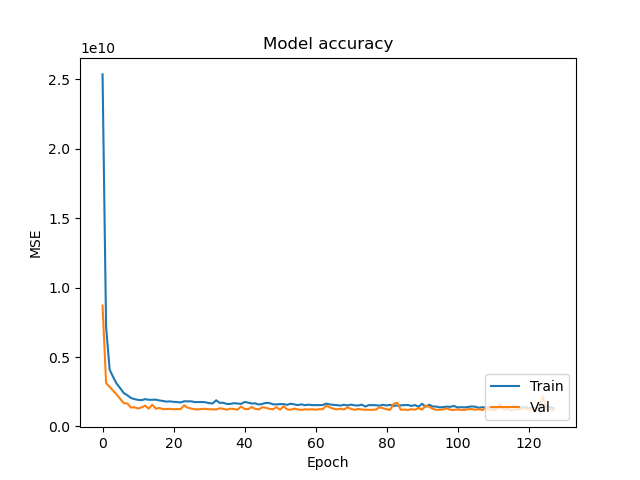
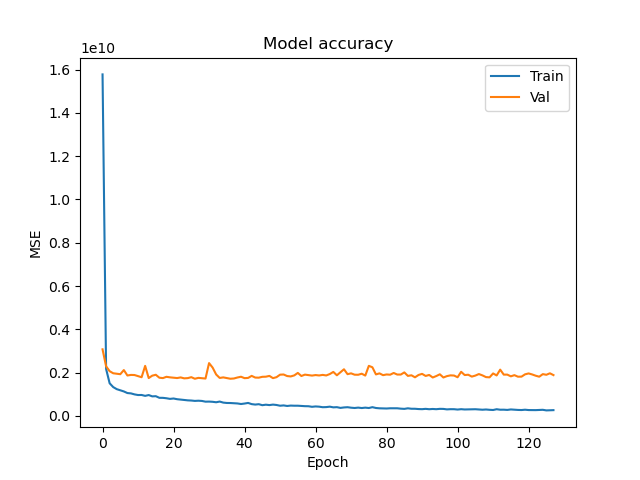
Modified data validation, test/training data sets are now only split once and modified figure outputs

diff --git a/AI_CW.py b/AI_CW.py
@@ -6,9 +6,10 @@ from sklearn.linear_model import LinearRegression
 from sklearn import metrics
 from sklearn.preprocessing import PolynomialFeatures
 from sklearn.model_selection import train_test_split
+from sklearn.preprocessing import MinMaxScaler
 
 # Load data from file
-allData=pd.read_csv('Data.csv', skip_blank_lines=True)
+df=pd.read_csv('Data.csv', skip_blank_lines=True)
 
 # extract all data from Data.csv, except non-numerical features
 #Bsmt SF 1&2 and unf SF removed - covered by Total Bsmt SF
@@ -17,88 +18,115 @@ allData=pd.read_csv('Data.csv', skip_blank_lines=True)
 #GarageYrBlt removed - unimportant
 #Misc Val removed - ambiguity
 #Bedroom AbvGr & Kitched AbvGr removed - covered by TotRms AbvGrd
-trimmedData = allData[["MS SubClass","Lot Frontage","Lot Area","Overall Qual","Overall Cond",
-"Year Built","Year Remod/Add","Mas Vnr Area",
-"Total Bsmt SF","1st Flr SF","2nd Flr SF",
-"Low Qual Fin SF","Gr Liv Area",
-"Full Bath","Half Bath",
-"TotRms AbvGrd","Fireplaces","Garage Area",
-"Wood Deck SF","Open Porch SF", "Enclosed Porch",
-"3Ssn Porch","Screen Porch","Pool Area","Mo Sold","Yr Sold","SalePrice"]]
-#print("Trimmed data:",trimmedData)
 
+FML: list[str] = [
+    "Order",
+    "Yr Sold",
+    "Mo Sold",
+    "BsmtFin SF 1",
+    "BsmtFin SF 2",
+    "1st Flr SF",
+    "2nd Flr SF",
+    "Low Qual Fin SF",
+    "Bsmt Full Bath",
+    "Bsmt Half Bath",
+    "Full Bath",
+    "Half Bath",
+    "Bedroom AbvGr",
+    "Kitchen AbvGr",
+]
+df.drop(FML, axis=1)
+non_numeric_columns: list[str] = df.select_dtypes(
+    exclude=np.number).columns.tolist()
+
+df = df.drop(non_numeric_columns, axis = 1)
 #Replace null values with average for the column
 
-for col in trimmedData:
+df = df.fillna(df.mean())
 
-    currentCol = trimmedData[col]
-    mean = float
-    mean = currentCol.mean()
-    trimmedData[col] = trimmedData[col].fillna(mean)
+# Scale columns except last (sale price)
+scaler=MinMaxScaler()
+df[df.columns[:-1]] = scaler.fit_transform(df[df.columns[:-1]])
 
-#Partition dataset 80/20 for training & testingpytho
-#2930 indexes, highest index = 2929
+#Partition dataset 80/20 for training & testing
 #Training data = 0-2344
 #Test data = 2343-2929 
+df_train: pd.DataFrame = df.iloc[: int(0.8*len(df))]
+df_test: pd.DataFrame = df.iloc[int(0.8*len(df)):]
 
-X, Y = trimmedData[["MS SubClass","Lot Frontage","Lot Area","Overall Qual","Overall Cond",
-"Year Built","Year Remod/Add","Mas Vnr Area",
-"Total Bsmt SF","1st Flr SF","2nd Flr SF",
-"Low Qual Fin SF","Gr Liv Area",
-"Full Bath","Half Bath",
-"TotRms AbvGrd","Fireplaces","Garage Area",
-"Wood Deck SF","Open Porch SF", "Enclosed Porch",
-"3Ssn Porch","Screen Porch","Pool Area","Mo Sold","Yr Sold"]], trimmedData["SalePrice"]
+df_x_train: pd.DataFrame = df_train.drop(["SalePrice"],axis=1)
+df_y_train: pd.DataFrame = df_train["SalePrice"]
+
+df_x_test: pd.DataFrame = df_test.drop(["SalePrice"],axis=1)
+df_y_test: pd.DataFrame = df_test["SalePrice"]
+
 
 #Linear Regression
-xTrain, xTest, yTrain, yTest = train_test_split(X, Y, test_size=0.2, random_state=42)
 linearModel = LinearRegression()
-linearModel.fit(xTrain, yTrain)
+linearModel.fit(df_x_train, df_y_train)
 
-linPredict = linearModel.predict(xTest)
-fig=sns.regplot(x=yTest, y=linPredict)
-fig.figure.savefig("./plots/linearRegressionPredictions.png")
-fig.clear()
+linPredict = linearModel.predict(df_x_test)
+#fig=sns.regplot(x=df_y_test, y=linPredict)
+plt.scatter(df_y_test,linPredict)
+plt.plot(df_y_test, np.poly1d(np.polyfit(df_y_test,linPredict,1))(df_y_test),color="red")
+#fig.set(xlabel='True Value',ylabel='Predicted Value')
+plt.xlabel("Actual")
+plt.ylabel("Predicted")
+plt.savefig("./plots/linearRegressionPredictions.png")
+plt.clf()
 
 ##Compute Mean Absolute Error
-print("Linear MAE: ", metrics.mean_absolute_error(yTest, linPredict))
+print("Linear MAE: ", metrics.mean_absolute_error(df_y_test, linPredict))
 ##Compute Mean Squared Error
-print("Linear MSE: ", metrics.mean_squared_error(yTest,linPredict))
+print("Linear MSE: ", metrics.mean_squared_error(df_y_test,linPredict))
 ##Compute Root Mean Squared Error
-print("Linear RMSE: ", np.sqrt(metrics.mean_squared_error(yTest, linPredict)))
+print("Linear RMSE: ", np.sqrt(metrics.mean_squared_error(df_y_test, linPredict)))
 
 #Polynomial Regresssion
 
 #Create and add data to model
-poly = PolynomialFeatures(degree=2,include_bias=True)
-features = poly.fit_transform(X)
-xTrain, xTest, yTrain, yTest = train_test_split(features, Y, test_size=0.2, random_state=42)
-
 polyRegModel = LinearRegression()
-polyRegModel.fit(xTrain,yTrain)
-polyPredict = polyRegModel.predict(xTest)
+poly = PolynomialFeatures(degree=2,include_bias=False)
+features = poly.fit_transform(df_x_train)
+
+polyRegModel.fit(df_x_train,df_y_train)
+polyPredict = polyRegModel.predict(df_x_test)
 
 #Computations
-print("Poly MAE: ",metrics.mean_absolute_error(yTest,polyPredict))
-print("Poly MSE: ", metrics.mean_squared_error(yTest,polyPredict))
-print("Poly RMSE: ",np.sqrt(metrics.mean_squared_error(yTest,polyPredict)))
+print("Poly MAE: ",metrics.mean_absolute_error(df_y_test,polyPredict))
+print("Poly MSE: ", metrics.mean_squared_error(df_y_test,polyPredict))
+print("Poly RMSE: ",np.sqrt(metrics.mean_squared_error(df_y_test,polyPredict)))
 
-#Create and save seaborn figure
-fig = sns.regplot(x=yTest,y=polyPredict)
-fig.figure.savefig("./plots/PolyRegression")
-fig.clear()
+#Create and save figure
+
+plt.scatter(df_y_test, polyPredict)
+plt.plot(df_y_test, np.poly1d(np.polyfit(df_y_test,polyPredict,1))(df_y_test),color="red")
+plt.xlabel("Actual")
+plt.ylabel("Predicted")
+plt.savefig("./plots/PolyRegression")
+plt.clf()
 
 #Neural Network
-X_new, X_test, y_new, y_test = train_test_split(X, Y, test_size=0.2, random_state=0)
-dev_per = X_test.shape[0]/X_new.shape[0]
-X_train, X_dev, y_train, y_dev = train_test_split(X_new, y_new, test_size=dev_per, random_state=0)
+df = pd.concat([df_train,df_test])
+df_train = df.iloc[:int(df.shape[0]*0.6)]
+df_val = df.iloc[int(df.shape[0]*0.6):int(df.shape[0]*0.8)]
+df_test = df.iloc[int(df.shape[0]*0.8) :]
+
+df_x_train: pd.DataFrame = df_train.drop(["SalePrice"],axis=1)
+df_y_train: pd.DataFrame = df_train["SalePrice"]
+
+df_x_test: pd.DataFrame = df_test.drop(["SalePrice"],axis=1)
+df_y_test: pd.DataFrame = df_test["SalePrice"]
+
+df_x_val: pd.DataFrame = df_val.drop(["SalePrice"],axis=1)
+df_y_val: pd.DataFrame = df_val["SalePrice"]
 
 from keras.models import Sequential
 from keras.layers import Dense
 from tensorflow.keras.optimizers import Adam
 
-model = Sequential([
-    Dense(128, activation='relu', input_shape=(26,)),
+network = Sequential([
+    Dense(128, activation='relu', input_shape=(38,)),
     Dense(128, activation='relu'),
     Dense(128, activation='relu'),
     Dense(128, activation='relu'),
@@ -108,17 +136,20 @@ model = Sequential([
 
 optimizer = Adam(learning_rate=0.001)
 
-model.compile(optimizer= optimizer,
+network.compile(optimizer= optimizer,
               loss='mean_squared_error',
               metrics=['mean_squared_error'])
 
-hist = model.fit(X_train, y_train,
-          batch_size=0, epochs=128,
-          validation_data=(X_dev, y_dev),
+hist = network.fit(df_x_train, df_y_train,
+          batch_size=8, epochs=128,
+          validation_data=(df_x_val, df_y_val),
           verbose = 0)
 
+NNetPredictions: np.ndarray = network.predict(df_x_test)
 
 #Loss of NNet
+plt.clf()
+plt.title("NNet Loss")
 plt.plot(hist.history['loss'])
 plt.plot(hist.history['val_loss'])
 plt.title('Model loss')
@@ -135,53 +166,19 @@ plt.plot(hist.history['val_mean_squared_error'])
 plt.title('Model accuracy')
 plt.ylabel('MSE')
 plt.xlabel('Epoch')
-plt.legend(['Train', 'Val'], loc='lower right')
+plt.legend(['Train', 'Val'], loc='upper right')
 plt.savefig("./plots/NNetAccuracy.png")
 plt.clf()
 
+# Plot predictions against true values 
+plt.scatter(df_y_test, NNetPredictions)
+y_pred = NNetPredictions.flatten()
+plt.plot(df_y_test,np.poly1d(np.polyfit(df_y_test,y_pred,1))(df_y_test), color="red")
+plt.savefig("./plots/NNetPredictions.png")
+plt.clf()
+
 # Evaluate the model on the test set
-test_loss, test_accuracy = model.evaluate(X_test, y_test, verbose=1)
+test_loss, test_accuracy = network.evaluate(df_x_test, df_y_test, verbose=1)
 # Print the accuracy
 print(f"Test MSE: {test_accuracy}")
 print(f"Val Loss: {test_loss}")
-
-# exampleGraph = sns.load_dataset(exampleData)
-#calculatorStuff = exampleData["Lot Area"].to_numpy()
-# Splits 'exampledata' dict into two lists
-
-#tempLotArea = exampleData["Lot Area"]
-#tempSalePrice = exampleData["SalePrice"]
-#landVal = []
-
-# calculates landvalue, area/price, adds to list
-#for index in range(len(tempLotArea)):
- #   lotArea = tempLotArea[index]
-  #  salePrice = tempSalePrice[index]
-   # tempVal = lotArea/salePrice
-    #landVal.append(tempVal)
-
-# Creates numpy list, calculates mean and std
-#numpyLandVal = np.array(landVal)
-#mean = numpyLandVal.mean()
-#std = numpyLandVal.std()
-#removed = []
-
-# itterates numpy list, removes outliers in dataset
-#for index in range(len(numpyLandVal)):
-#    if numpyLandVal[index]>=(mean+(3*std)):
-#        removed.append(index)
-#        exampleData = exampleData.drop(index)
-#    elif numpyLandVal[index]<=(mean-(3*std)):
-#       removed.append(index)
-#       exampleData = exampleData.drop(index)
-
-# Outputs data as scatter graph
-#graph = sns.FacetGrid(exampleData)
-#graph.map(plt.scatter,"SalePrice","Lot Area",edgecolor = "Blue" ).add_legend()
-
-# Generates line of best fit, adds to graph before display
-#model = np.poly1d(np.polyfit(exampleData["SalePrice"],exampleData["Lot Area"],1))
-#polyline = np.linspace(exampleData.min(), exampleData.max(), 50)
-#plt.plot(polyline, model(polyline))
-#plt.savefig("./plots/test.png")
-#plt.clf()
